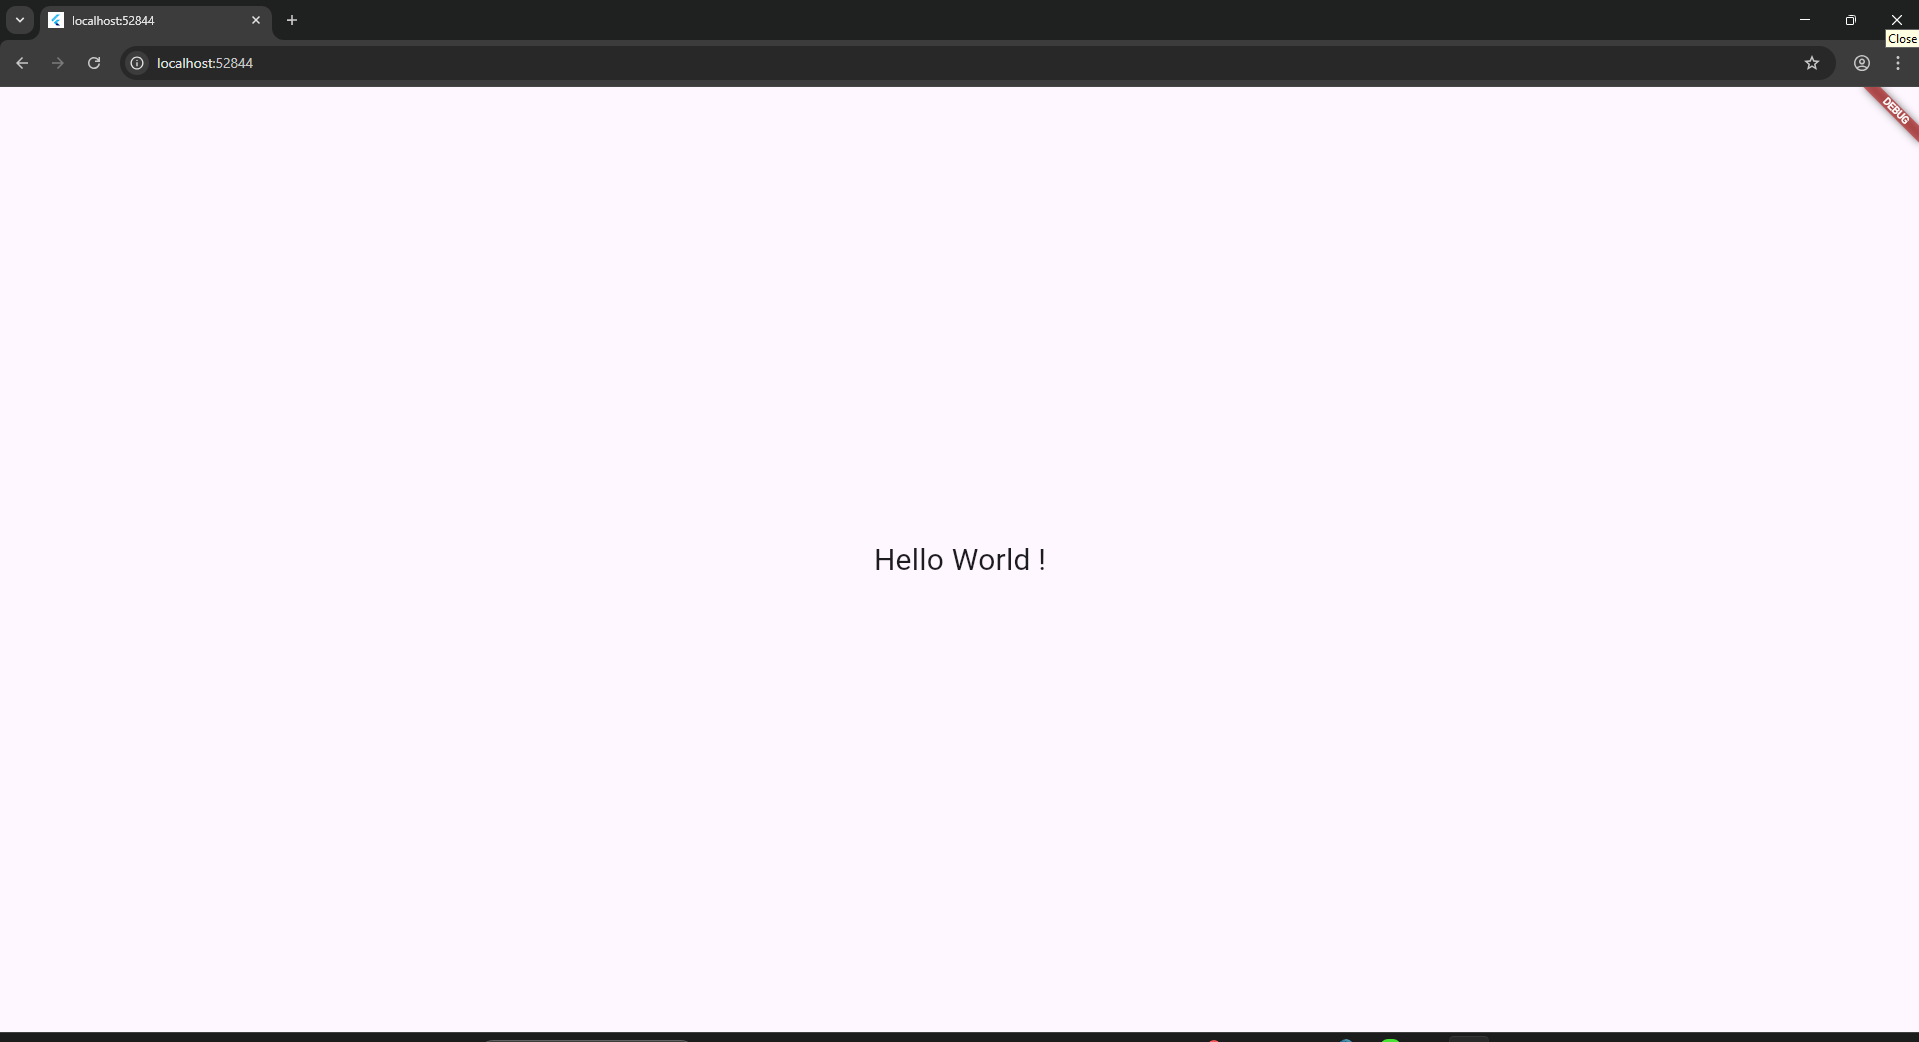
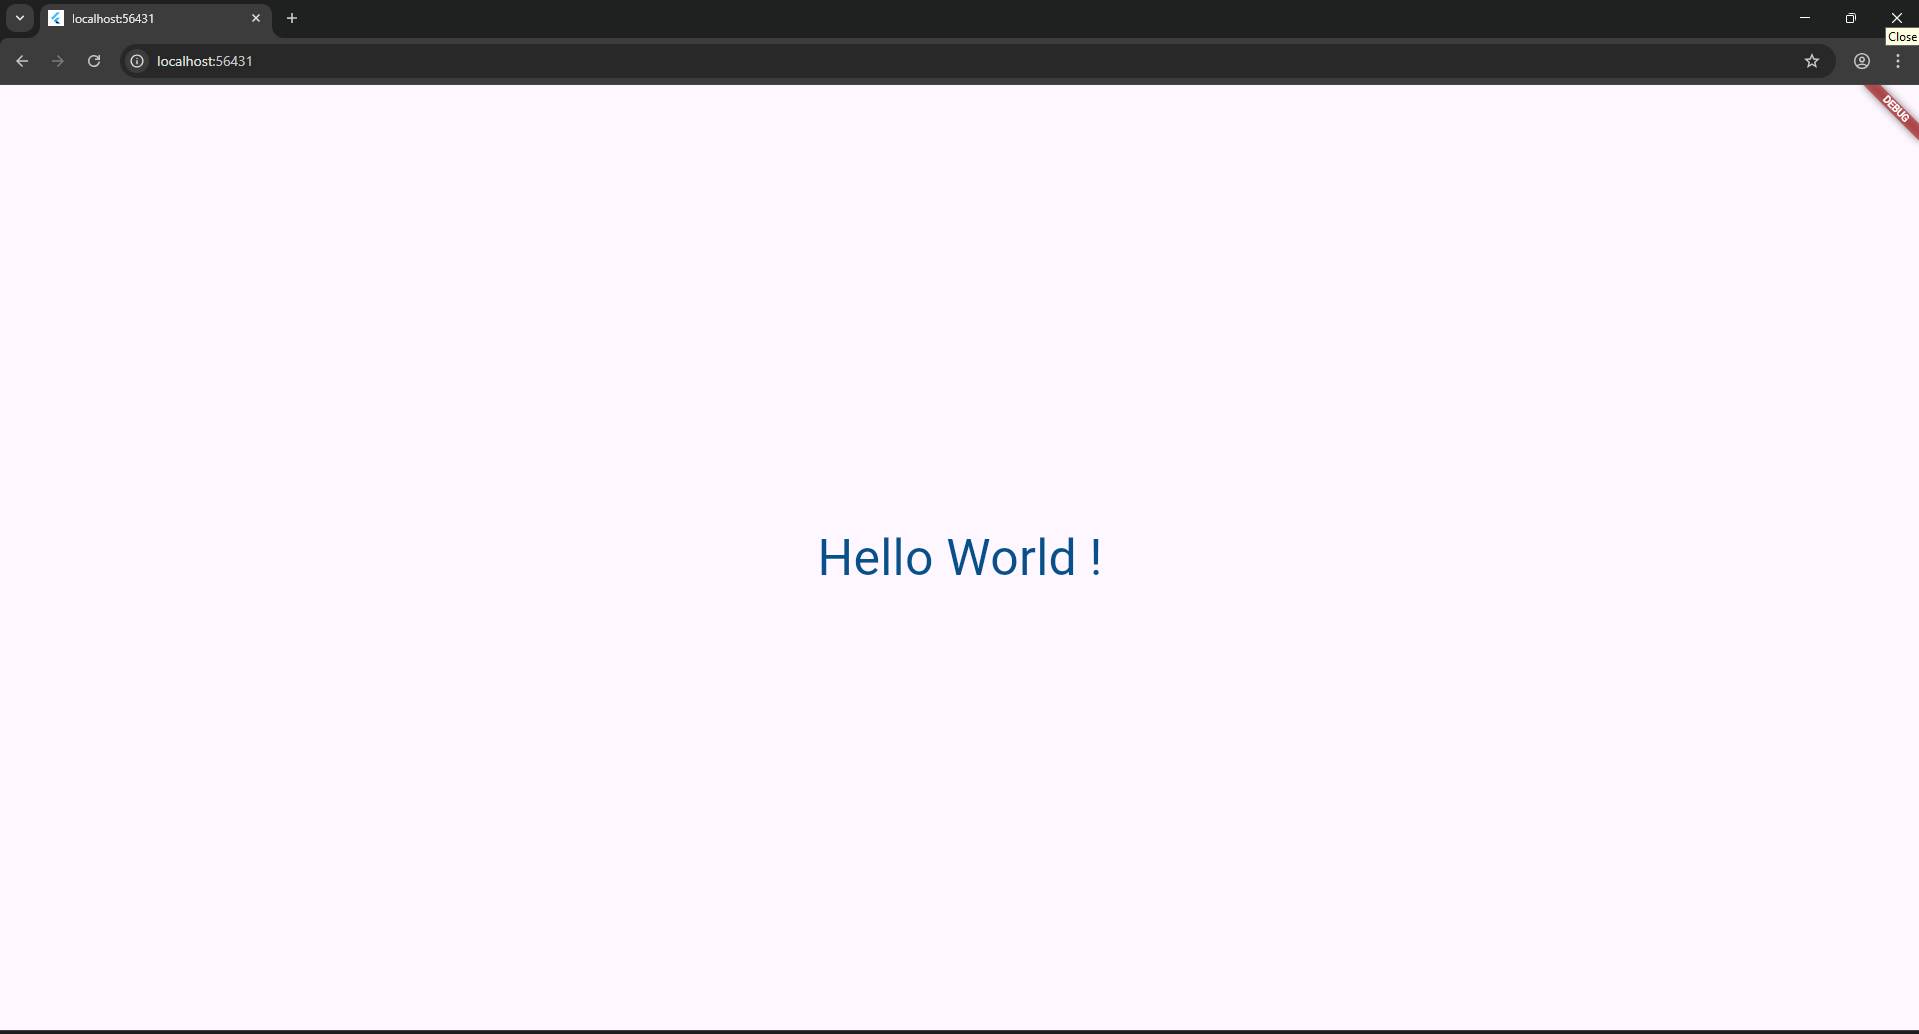
Adding Hello world and some style

diff --git a/lib/main.dart b/lib/main.dart
@@ -14,7 +14,8 @@ class MyApp extends StatelessWidget {
         body: Center(
           child: Text(
             "Hello World !",
-            style: TextStyle(fontSize: 30),
+            style: TextStyle(fontSize: 50,
+              color: Color.fromARGB(255, 9, 80, 138)),
           ),
         ),
       ),
